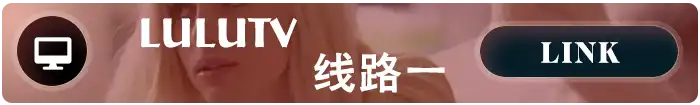
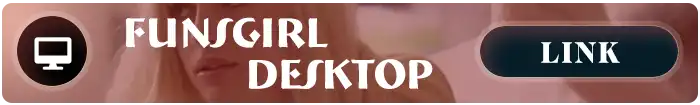
no message

Changed region(s): [[0.33, 0.4857, 0.66, 0.8857], [0.18, 0.1714, 0.48, 0.4571]]

diff --git a/scss/all.css b/scss/all.css
@@ -537,31 +537,33 @@ body {
   }
 }
 .dlBtn li {
-  width: 33.3333333333%;
+  width: 50%;
   padding: 5px;
   cursor: pointer;
   opacity: 0.7;
   transition: transform 0.5s;
+  position: relative;
 }
-@media screen and (max-width: 1000px) {
-  .dlBtn li {
-    width: 50%;
-  }
+.dlBtn li:nth-child(3) {
+  display: none;
 }
-@media screen and (max-width: 650px) {
+@media screen and (max-width: 950px) {
   .dlBtn li {
     width: 100%;
-  }
-}
-@media screen and (max-width: 400px) {
-  .dlBtn li {
-    padding: 1vw;
   }
 }
 @media (any-hover: hover) {
   .dlBtn li:hover {
     transform: translateY(-5px);
     opacity: 1;
+  }
+}
+@media (pointer: coarse), (-moz-touch-enabled: 1), screen and (pointer: fine) and (-webkit-min-device-pixel-ratio: 2) and (max-width: 1023px), screen and (pointer: fine) and (min-resolution: 2dppx) and (max-width: 1023px) {
+  .dlBtn li:nth-child(2) {
+    display: none;
+  }
+  .dlBtn li:nth-child(3) {
+    display: block;
   }
 }
 

diff --git a/scss/_main.scss b/scss/_main.scss
@@ -405,24 +405,34 @@ body {
         }
     }
     li {
-        width: calc(100% / 3);
+        width: calc(100% / 2);
         padding: 5px;
         cursor: pointer;
         opacity: 0.7;
         transition: transform 0.5s;
-        @include rwd(1000) {
-            width: calc(100% / 2);
+        position: relative;
+
+        &:nth-child(3){
+            display: none;
         }
-        @include rwd(650) {
+
+        @include rwd(950) {
             width: 100%;
         }
-        @include rwd(400) {
-            padding: 1vw;
-        }
+
         @include hover {
             &:hover {
                 transform: translateY(-5px);
                 opacity: 1;
+            }
+        }
+        
+        @include phone{
+            &:nth-child(2){
+                display: none;
+            }
+            &:nth-child(3){
+                display: block;
             }
         }
     }

diff --git a/index.html b/index.html
@@ -70,6 +70,7 @@
                     <a :href="item.href" target="_blank">
                         <img :src="item.src">
                     </a>
+                    <div class="qrcode"></div>
                 </li>
             </ul>
         </div>
@@ -113,7 +114,7 @@
                 </ul>
             </div>
             <div class="footer">
-                <p><span>Copyright © since 2023</span><span> lulutv All Rights Reserved.</span></p>
+                <p><span>Copyright © since 2023</span><span> funsgirl All Rights Reserved.</span></p>
             </div>
         </div> 
 
